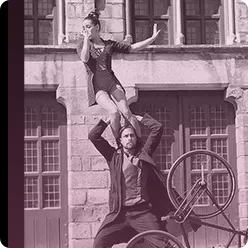
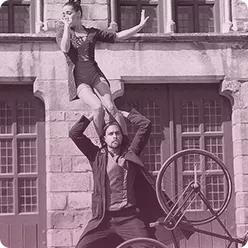
jpg images ipv png images

diff --git a/src/style.css b/src/style.css
@@ -185,6 +185,8 @@ p {
   padding-right: 2rem;
   padding-bottom: 1rem;
   padding-top: 4rem;
+
+  font-weight: bold;
 }
 
 .uitgelicht__info {
@@ -323,6 +325,10 @@ p {
 
 .blik__deco {
   position: absolute;
+}
+
+.blik__deco__m {
+  display: none;
 }
 
 .blik__slider {
@@ -684,6 +690,11 @@ p {
     display: none;
   }
 
+  .blik__deco__m {
+    display: block;
+    position: absolute;
+  }
+
   .blik__slider {
     padding-left: 0;
     overflow: hidden;
@@ -850,6 +861,10 @@ p {
 
   .wij__tekst {
     width: 34rem;
+  }
+
+  .blik__deco__m {
+    padding-left: 2.5rem;
   }
 
   .blik__video {

diff --git a/src/view/acts/index.php b/src/view/acts/index.php
@@ -28,22 +28,21 @@
                  (min-width: 0) 100w"
         />
         <source
-          type="png"
+          type="jpg"
           srcset="
-            assets/img/home/headerfoto_s.png   320w,
-            assets/img/home/headerfoto_m.png   775w,
-            assets/img/home/headerfoto_l.png   1441w
+            assets/img/home/headerfoto_s.jpg   320w,
+            assets/img/home/headerfoto_m.jpg   775w,
+            assets/img/home/headerfoto_l.jpg   1441w
           "
           sizes="(min-width: 1024px) 50h,
                  (min-width: 768px) 50w,
                  (min-width: 0) 100w"
         />
         <img class="wrapper__image"
-          src="assets/img/home/headerfoto_l.png "
+          src="assets/img/home/headerfoto_l.jpg "
           alt="Een zwart wit foto van een straatvoorstelling met een verklede man met daarover een roze schijn."
         />
     </picture>
-    <!-- <img class="wrapper__driehoek" src="assets/img/driehoek.png" alt="achtergrond decoratie, 1 grote roze driehoek, 1 kleine blauwe driehoek."> -->
   </section>
   <section class="uitgelicht">
     <div class="uitgelicht__titel2">
@@ -91,18 +90,18 @@
                  (min-width: 0) 100vw"
         />
         <source
-          type="png"
+          type="jpg"
           srcset="
-            assets/img/home/kaart_s.png   335w,
-            assets/img/home/kaart_m.png   354w,
-            assets/img/home/kaart_l.png   422w
+            assets/img/home/kaart_s.jpg   335w,
+            assets/img/home/kaart_m.jpg   354w,
+            assets/img/home/kaart_l.jpg   422w
           "
           sizes="(min-width: 1024px) 30vw,
                  (min-width: 768px) 45vw,
                  (min-width: 0) 100vw"
         />
         <img
-          src="assets/img/home/kaart_l.png "
+          src="assets/img/home/kaart_l.jpg "
           alt="Een kaart met een route aangeduid in het roze."
         />
     </picture>
@@ -127,18 +126,18 @@
                  (min-width: 0) 100vw"
         />
         <source
-          type="png"
+          type="jpg"
           srcset="
 
-            assets/img/home/vrijwilligers_m.png   355w,
-            assets/img/home/vrijwilligers_l.png   422w
+            assets/img/home/vrijwilligers_m.jpg   355w,
+            assets/img/home/vrijwilligers_l.jpg   422w
           "
           sizes="(min-width: 1024px) 30vw,
                  (min-width: 768px) 45vw,
                  (min-width: 0) 100vw"
         />
         <img
-          src="assets/img/home/vrijwilligers_l.png "
+          src="assets/img/home/vrijwilligers_l.jpg "
           alt="Een illustratie van een wereldbol met de vredensduif en de tekst Bedankt, vrijwilligers."
         />
     </picture>
@@ -159,7 +158,51 @@
     <div class="blik__video" >
         <iframe  width=100% height= 100% src="https://www.youtube.com/embed/lrlscBtuSUM" frameborder="0" allow="accelerometer; autoplay; encrypted-media; gyroscope; picture-in-picture" allowfullscreen></iframe>
     </div>
-    <img class="blik__deco" src="assets/img/lijnen.png" alt="decoratie lijnen.">
+    <picture>
+          <source
+            type="image/webp"
+            srcset="
+            assets/img/lijnen.webp  169w
+            "
+            sizes="50vw"
+          />
+          <source
+            type="png"
+            srcset="
+            assets/img/lijnen.png   169w
+            "
+            sizes="50vw"
+          />
+          <img
+          class="blik__deco"
+            src="assets/img/lijnen.png "
+            alt="decoratie lijnen."
+          />
+        </picture>
+        <picture>
+          <source
+            type="image/webp"
+            srcset="
+            assets/img/lijnen_m.webp  172w
+            "
+            sizes="(min-width: 1024px) 15vw,
+                   (min-width: 0) 20vw"
+          />
+          <source
+            type="png"
+            srcset="
+            assets/img/lijnen_m.png   172w
+            "
+            sizes="(min-width: 1024px) 15vw,
+                   (min-width: 0) 20vw"
+          />
+          <img
+          class="blik__deco__m"
+            src="assets/img/lijnen_m.png "
+            alt="decoratie lijnen."
+          />
+        </picture>
+    <!-- <img class="blik__deco" src="assets/img/lijnen.png" alt="decoratie lijnen."> -->
     <div class="blik__slider">
       <div class="blik__slider-slide-image__baby"">
         <picture>
@@ -174,17 +217,17 @@
                    (min-width: 0) 45vw"
           />
           <source
-            type="png"
+            type="jpg"
             srcset="
-              assets/img/home/baby_m.png   147w,
-              assets/img/home/baby_l.png   248w
+              assets/img/home/baby_m.jpg   147w,
+              assets/img/home/baby_l.jpg   248w
             "
             sizes="(min-width: 1024px) 12vw,
                    (min-width: 768px) 15vw,
                    (min-width: 0) 45vw"
           />
           <img
-            src="assets/img/home/baby_l.png "
+            src="assets/img/home/baby_l.jpg "
             alt="Een zwart wit sfeerfoto van een baby met een persoon van een voorstelling."
           />
         </picture>
@@ -202,17 +245,17 @@
                    (min-width: 0) 45vw"
           />
           <source
-            type="png"
+            type="jpg"
             srcset="
-              assets/img/home/wapper_m.png   147w,
-              assets/img/home/wapper_l.png   248w
+              assets/img/home/wapper_m.jpg   147w,
+              assets/img/home/wapper_l.jpg   248w
             "
             sizes="(min-width: 1024px) 12vw,
                    (min-width: 768px) 15vw,
                    (min-width: 0) 45vw"
           />
           <img
-            src="assets/img/home/wapper_l.png "
+            src="assets/img/home/wapper_l.jpg "
             alt="Een zwart wit sfeerfoto van hetzelfde personage als het hoofdbeeld."
           />
         </picture>
@@ -230,17 +273,17 @@
                    (min-width: 0) 45vw"
           />
           <source
-            type="png"
+            type="jpg"
             srcset="
-              assets/img/home/eenwieler_m.png   147w,
-              assets/img/home/eenwieler_l.png   248w
+              assets/img/home/eenwieler_m.jpg   147w,
+              assets/img/home/eenwieler_l.jpg   248w
             "
             sizes="(min-width: 1024px) 12vw,
                    (min-width: 768px) 15vw,
                    (min-width: 0) 45vw"
           />
           <img
-            src="assets/img/home/eenwieler_l.png "
+            src="assets/img/home/eenwieler_l.jpg "
             alt="Een zwart wit sfeerfoto van een eenwieler."
           />
         </picture>
@@ -258,17 +301,17 @@
                    (min-width: 0) 45vw"
           />
           <source
-            type="png"
+            type="jpg"
             srcset="
-              assets/img/home/vrouw_m.png   147w,
-              assets/img/home/vrouw_l.png   248w
+              assets/img/home/vrouw_m.jpg   147w,
+              assets/img/home/vrouw_l.jpg   248w
             "
             sizes="(min-width: 1024px) 12vw,
                    (min-width: 768px) 15vw,
                    (min-width: 0) 45vw"
           />
           <img
-            src="assets/img/home/vrouw_l.png "
+            src="assets/img/home/vrouw_l.jpg "
             alt="Een zwart wit sfeerfoto van een baby met een persoon van een voorstelling."
           />
         </picture>
@@ -286,17 +329,17 @@
                    (min-width: 0) 45vw"
           />
           <source
-            type="png"
+            type="jpg"
             srcset="
-              assets/img/home/zeplin_m.png   147w,
-              assets/img/home/zeplin_l.png   248w
+              assets/img/home/zeplin_m.jpg   147w,
+              assets/img/home/zeplin_l.jpg   248w
             "
             sizes="(min-width: 1024px) 12vw,
                    (min-width: 768px) 15vw,
                    (min-width: 0) 45vw"
           />
           <img
-            src="assets/img/home/zeplin_l.png "
+            src="assets/img/home/zeplin_l.jpg "
             alt="Een zwart wit sfeerfoto van een baby met een persoon van een voorstelling."
           />
         </picture>
@@ -314,17 +357,17 @@
                    (min-width: 0) 45vw"
           />
           <source
-            type="png"
+            type="jpg"
             srcset="
-              assets/img/home/opElkaar_m.png   147w,
-              assets/img/home/opElkaar_l.png   248w
+              assets/img/home/opElkaar_m.jpg   147w,
+              assets/img/home/opElkaar_l.jpg   248w
             "
             sizes="(min-width: 1024px) 12vw,
                    (min-width: 768px) 15vw,
                    (min-width: 0) 45vw"
           />
           <img
-            src="assets/img/home/opElkaar_l.png "
+            src="assets/img/home/opElkaar_l.jpg "
             alt="Een zwart wit sfeerfoto van een baby met een persoon van een voorstelling."
           />
         </picture>
@@ -342,17 +385,17 @@
                    (min-width: 0) 45vw"
           />
           <source
-            type="png"
+            type="jpg"
             srcset="
-              assets/img/home/lOnder_m.png   147w,
-              assets/img/home/lOnder_l.png   248w
+              assets/img/home/lOnder_m.jpg   147w,
+              assets/img/home/lOnder_l.jpg   248w
             "
             sizes="(min-width: 1024px) 12vw,
                    (min-width: 768px) 15vw,
                    (min-width: 0) 45vw"
           />
           <img
-            src="assets/img/home/lOnder_l.png "
+            src="assets/img/home/lOnder_l.jpg "
             alt="Een zwart wit sfeerfoto van een baby met een persoon van een voorstelling."
           />
         </picture>
@@ -370,17 +413,17 @@
                    (min-width: 0) 45vw"
           />
           <source
-            type="png"
+            type="jpg"
             srcset="
-              assets/img/home/rOnder_m.png   147w,
-              assets/img/home/rOnder_l.png   248w
+              assets/img/home/rOnder_m.jpg   147w,
+              assets/img/home/rOnder_l.jpg   248w
             "
             sizes="(min-width: 1024px) 12vw,
                    (min-width: 768px) 15vw,
                    (min-width: 0) 45vw"
           />
           <img
-            src="assets/img/home/rOnder_l.png "
+            src="assets/img/home/rOnder_l.jpg "
             alt="Een zwart wit sfeerfoto van een baby met een persoon van een voorstelling."
           />
         </picture>
@@ -398,17 +441,17 @@
                    (min-width: 0) 45vw"
           />
           <source
-            type="png"
+            type="jpg"
             srcset="
-              assets/img/home/vuur_m.png   147w,
-              assets/img/home/vuur_l.png   248w
+              assets/img/home/vuur_m.jpg   147w,
+              assets/img/home/vuur_l.jpg   248w
             "
             sizes="(min-width: 1024px) 12vw,
                    (min-width: 768px) 15vw,
                    (min-width: 0) 45vw"
           />
           <img
-            src="assets/img/home/vuur_l.png "
+            src="assets/img/home/vuur_l.jpg "
             alt="Een zwart wit sfeerfoto van een baby met een persoon van een voorstelling."
           />
         </picture>
